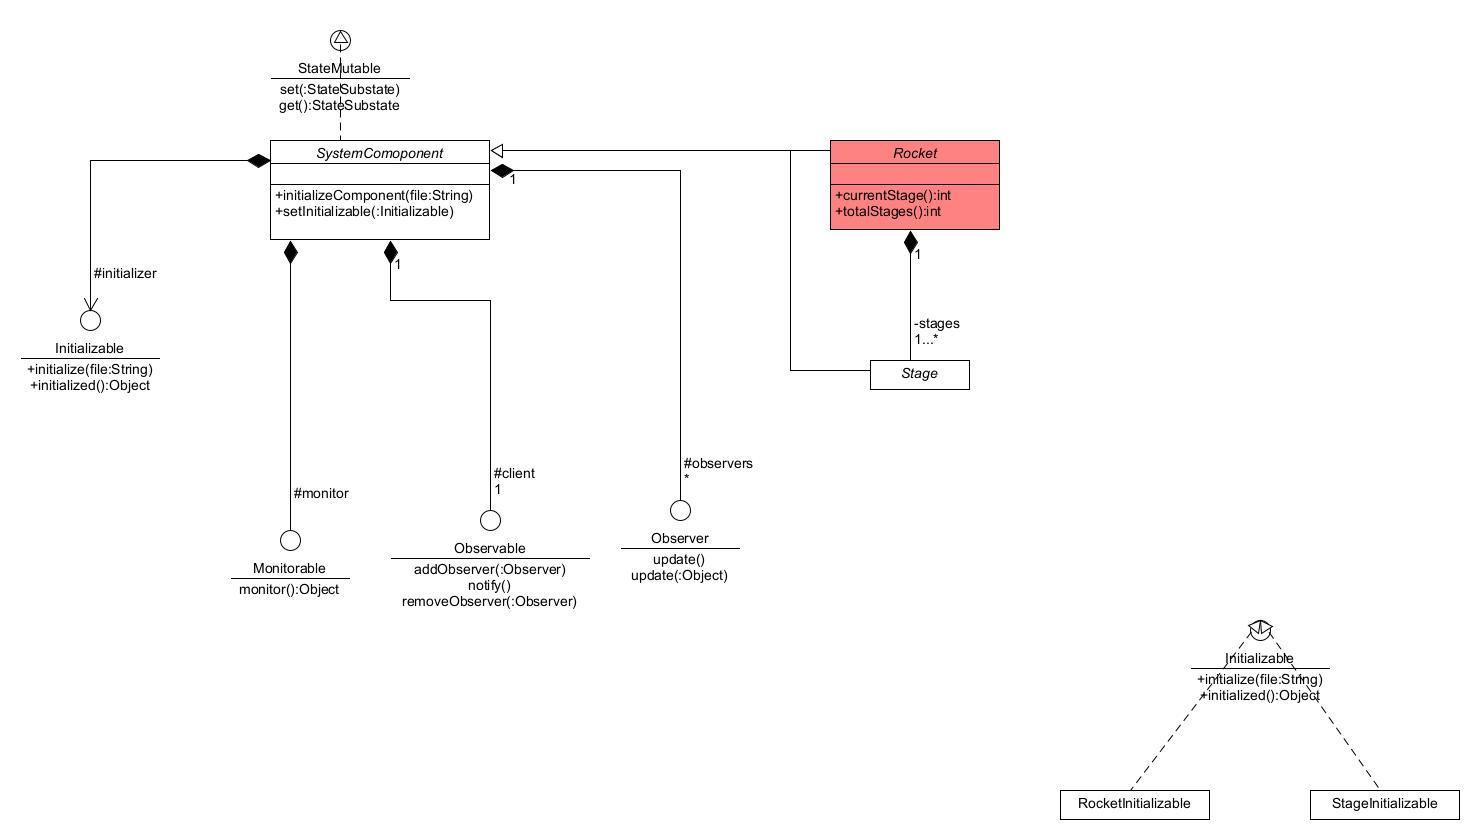
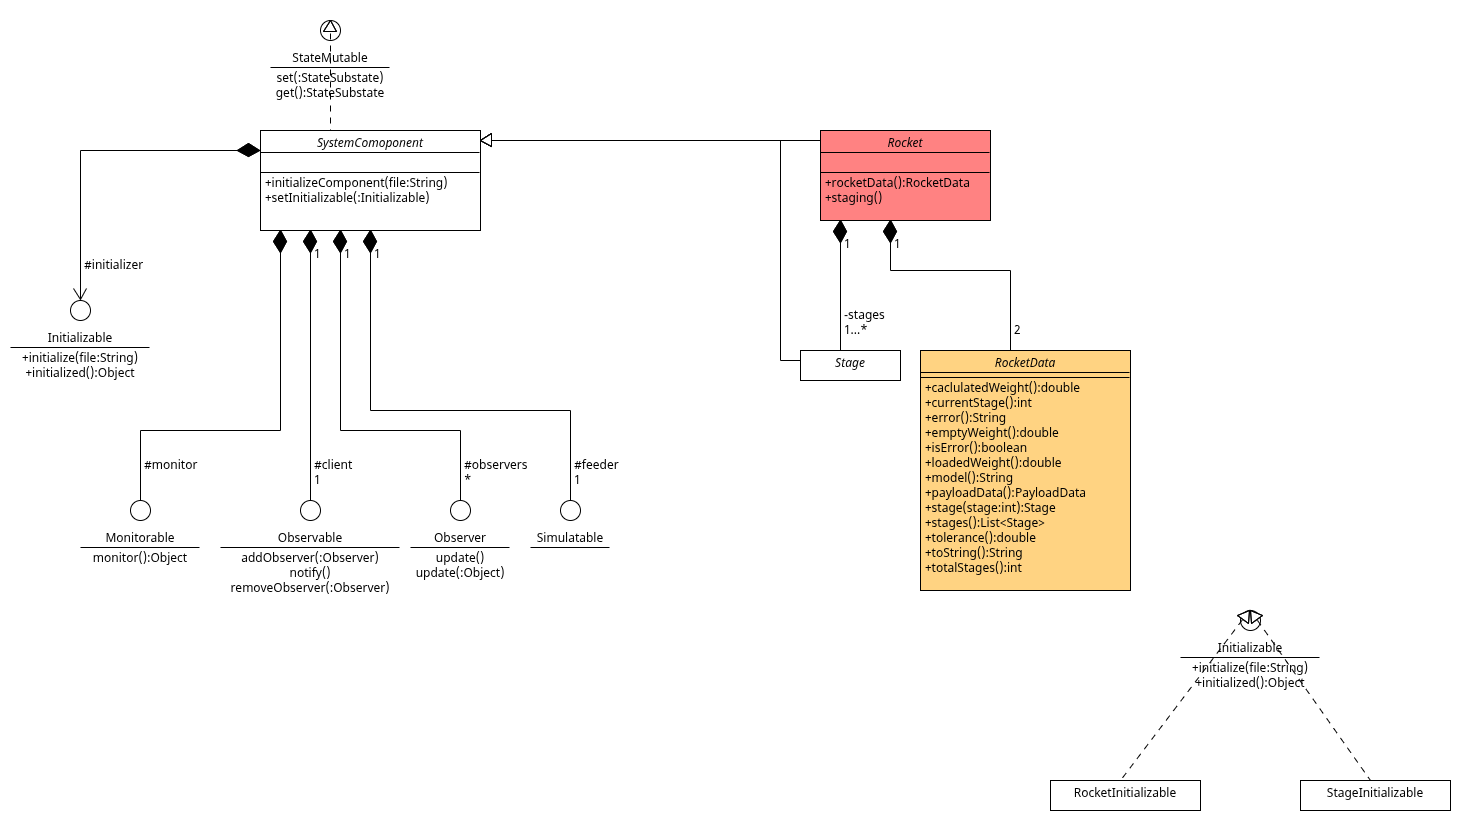
04-25-26-01

diff --git a/Rocket.java b/Rocket.java
@@ -23,14 +23,22 @@ import java.io.*;
 import rosas.lou.runnables.*;
 import rosas.lou.clock.*;
 
-public interface Rocket extends Runnable{
-   public RocketData monitor();
-   public void initialize(String file)throws IOException;
-   public void addDataFeeder(DataFeeder feeder);
-   public void addErrorListener(ErrorListener listener);
-   public void addSystemListener(SystemListener listener);
-   public void setStateSubstate(LaunchStateSubstate cond);
-   public int  currentStage();
-   public int  totalStages();
+public abstract class Rocket extends SystemComponent{
+   //////////////////////////Public Methods///////////////////////////
+   //
+   //
+   //
+
+   ///////////////SystemComponent Methods Overrides///////////////////
+   //
+   //
+   //
+   public void initializeComponent(String file)throws IOException{
+      if(this.initializable == null){
+         this.setInitializable(new RocketInitializable());
+      }
+      this.initializable.initialize(file);
+   }
+
 }
 //////////////////////////////////////////////////////////////////////

diff --git a/RocketData.java b/RocketData.java
@@ -21,7 +21,7 @@ import java.lang.*;
 import java.util.*;
 import rosas.lou.runnables.*;
 
-public interface RocketData{
+public abstract class RocketData{
    public double calculatedWeight();
    public int currentStage();
    public String error();

diff --git a/SystemComponent.java b/SystemComponent.java
@@ -29,7 +29,7 @@ public abstract class SystemComponent implements StateMutable{
    //
    //
    //
-   public void initializeComponent(String file){}
+   public void initializeComponent(String file)throws IOException{}
    
    //
    //